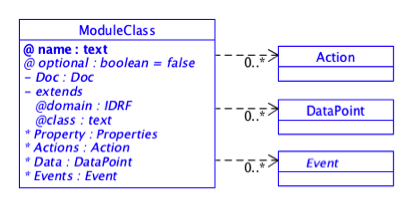
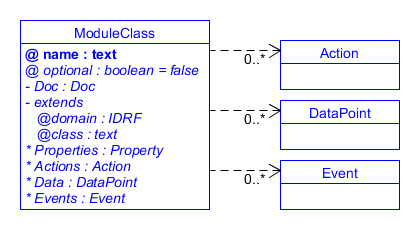
- In Introduction: added link to SDT components description - Fixed figure (simplified ModuleClasses) - Moved section "Events" before "Arg" - Corrected title for Constraint - "Arg" to TOC

Changed region(s): [[0.0291, 0.087, 0.9588, 0.9275]]

diff --git a/SDT/schema3.0/docs/SDT_Components.md b/SDT/schema3.0/docs/SDT_Components.md
@@ -5,6 +5,7 @@
 [Property](#Property)  
 [Module and ModuleClass](#ModuleClass)  
 &nbsp;&nbsp;&nbsp;[Action](#Action)  
+&nbsp;&nbsp;&nbsp;&nbsp;&nbsp;&nbsp;[Arg](#Arg)  
 &nbsp;&nbsp;&nbsp;[DataPoint](#DataPoint)  
 &nbsp;&nbsp;&nbsp;[Event](#Event)  
 [Data Types](#Data_Types)  
@@ -305,26 +306,6 @@ The following are two examples for actions implementing a getter and a setter fo
 	</Action>
 
 ---
-<a name="Arg"/></a>
-### Arg : Element of *Action*
-
-![](images/Arg.png)
- 
-The *Arg* element represents the parameter information which a device needs to carry out a required *Action*. 
-
-The *Arg* has the following attributes and elements:
-
-#### Attributes
-- **name** : The name of the *Arg* attribute. Required.
-
-#### Elements
-- **[Doc](#Documentation)** : Documentation for the *argument*. Optional.
-- **[DataType](#DataType)** : The return type of the *argument*. It must comply to the *DataType* definition. Required.
-
-#### Example
-See [example above](#ActionExample).
-
----
 
 <a name="Event"/></a>
 ### Event : Element of *ModuleClass*
@@ -356,6 +337,27 @@ See [example above](#ActionExample).
 
 ---
 
+<a name="Arg"/></a>
+### Arg : Element of *Action*
+
+![](images/Arg.png)
+ 
+The *Arg* element represents the parameter information which a device needs to carry out a required *Action*. 
+
+The *Arg* has the following attributes and elements:
+
+#### Attributes
+- **name** : The name of the *Arg* attribute. Required.
+
+#### Elements
+- **[Doc](#Documentation)** : Documentation for the *argument*. Optional.
+- **[DataType](#DataType)** : The return type of the *argument*. It must comply to the *DataType* definition. Required.
+
+#### Example
+See [example above](#ActionExample).
+
+---
+
 <a name="Data_Types"/></a>
 ### DataType
 The data type can be simple integers or string text, or rather complex, as shown below:
@@ -383,7 +385,7 @@ The *DataType* element is a "container" for the various aspects of a type.
 ---
 
 <a name="Constraint"/></a>
-### Constraint
+### Constraint : Element of DataType
 
 ![](images/Constraint.png)
 

diff --git a/SDT/schema3.0/docs/Introduction.md b/SDT/schema3.0/docs/Introduction.md
@@ -81,3 +81,9 @@ NOT directly part of this work is a related but separate aspect of every gateway
 Programmers developing a "device abstraction layer" for software in a gateway need to create run-time representations of all the recognized devices, their operations and their actual states. This internal "information model" needs to be updated in real time as the devices and the users interact. Programmers may be tempted to use the SDT structure to organize their real-time information model, adding additional information elements for the current state of each device, for some kind of "history" of commands sent/acknowledged, the user etc. 
 
 The above is an efficient approach BUT it must be clear that the real-time state information and history of events, etc, can NOT be represented in a pre-defined SDT and in the XML giving specific details for a device.
+
+---
+
+Click [here](SDT_Components.md) for detailed documentation about SDT.
+
+
